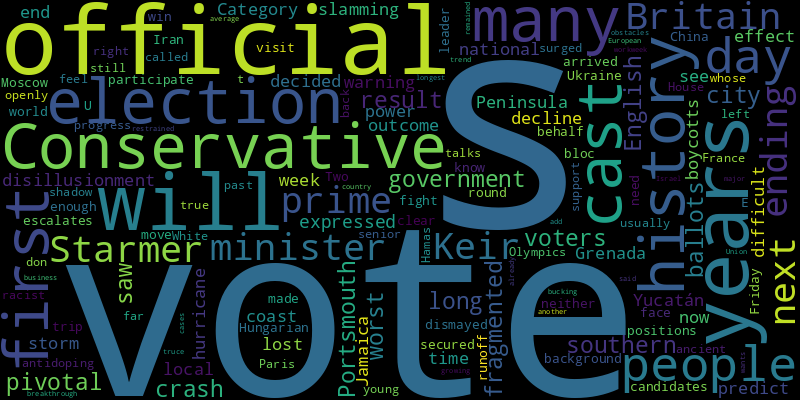
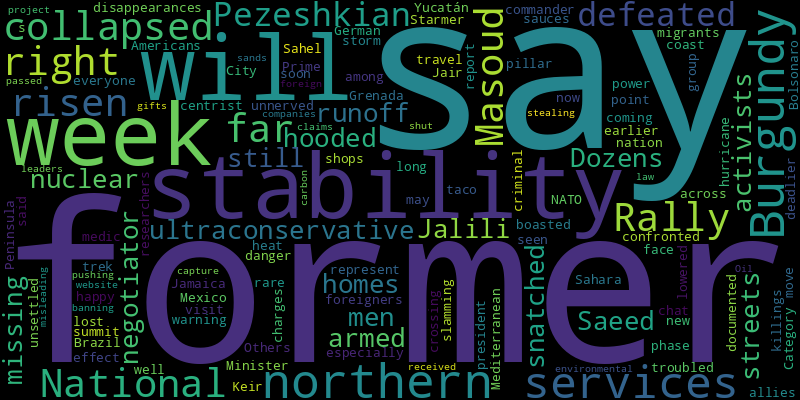
chore(bot): 👿 auto commit

diff --git a/README.md b/README.md
@@ -2,32 +2,33 @@
 Auto RSS New York Times and Generate Word Cloud
 
 ## New York Times Global News
-* Keir Starmer will be Britain’s next prime minister, ending 14 years of Conservative government. A fragmented vote saw the Conservatives crash to the worst result in their long history.
-* As voters cast their ballots in a pivotal election, many in the southern English city of Portsmouth expressed disillusionment over what they see as national and local decline.
+* In northern Burgundy, services have collapsed and the far-right National Rally has risen.
+* Masoud Pezeshkian defeated an ultraconservative former nuclear negotiator, Saeed Jalili, in a runoff.
+* Dozens of activists say they were snatched from their homes or off the streets by hooded, armed men. Some are still missing, and the disappearances have unnerved a nation long seen as a pillar of stability.
+* As more foreigners, especially Americans, visit or move to Mexico City, some taco shops have lowered the heat in their sauces. Not everyone is happy.
+* Prime Minister Keir Starmer will travel to a NATO summit this coming week, where he will represent a rare point of centrist stability among unsettled allies.
+* A German medic said he was so troubled that he confronted his commander. Others boasted about killings in a group chat.
+* The danger to migrants while crossing the Mediterranean is well documented, but an earlier phase of their trek, across the Sahel and the Sahara, is deadlier, researchers say in a new report.
 * The storm, now a Category 2,  has lost some power since slamming Jamaica and Grenada this week. A hurricane warning is in effect for the coast of the Yucatán Peninsula.
-* For the first time in years, the outcome is difficult to predict, and could be decided by how many people end their boycotts and participate in the vote.
-* Two candidates face off in Iran’s runoff election on Friday after neither secured enough votes to win in the first round. Here’s what you need to know about their positions and background.
-* Days after a trip to Ukraine, the Hungarian leader arrived in Moscow for a visit that has dismayed E.U. officials, who have made clear that he is not there on behalf of the bloc.
-* The move escalates a fight with China and world antidoping officials, and will cast a shadow over the Paris Olympics.
-* Most young people in France usually don’t vote or they back the left. That is still true, but support has surged for the far right, whose openly racist past can feel to them like ancient history.
-* A senior White House official called progress in talks with Hamas “a breakthrough,” while Israel was more restrained, and both said major obstacles to a truce remained.
-* The country, which already has the European Union’s longest average workweek, wants to add another day in some cases, bucking a growing business trend.
+* Brazil’s former president, Jair Bolsonaro, may soon face criminal charges for stealing gifts he received from foreign leaders.
+* Oil sands companies pushing a carbon capture project shut down their website after a law banning misleading environmental claims was passed.
 
 ![Global](./global.png)
 ## New York Times United States News
-* Dozens of voters in four swing states expressed fear, frustration and anger. And they want a Plan B — whatever (and whoever) that is.
+* “Felon” carries an ancient stigma — one that falls on millions of Americans today. Trump might well redefine it.
+* After more than a century, researchers hope to finally identify the victims of one of the worst racial attacks in American history.
 * The fire in Oroville forced 29,000 people to evacuate their homes earlier this week, but on Thursday officials said they felt “more confident” about containing the fire’s spread.
-* Residents moved to Mountain House, Calif., to escape soaring housing costs near the coast. Now, they just have to survive the searing summer heat.
-* Pro-Trump professionals aren’t just talking about remaking Western civilization. Some are uprooting their lives to show that they mean it.
-* The new ads are part of a push by Mr. Biden’s campaign for stability at a time when some members of his party have called for the president to drop out.
-* Republicans and Democrats live in radically different universes, interpreting the same set of facts through radically different lenses.
-* The president’s appearances have come under intense scrutiny since he appeared feeble in his debate against former President Donald J. Trump.
-* Gov. Gavin Newsom of California defended President Biden and told party activists in Michigan, a critical swing state, “not to be fatalistic” about the campaign.
-* The president appears intent on remaining on the ballot, while wealthy donors are discussing plans to put their money elsewhere.
-* The president’s opening remark to a group of key Democratic leaders — that he was in the race to stay — chilled any talk of his withdrawal, participants said.
+* Whether to publish the voluminous paper trail left behind by the assailant was one of the most contested issues that arose from the attack.
+* President Biden insisted on Friday that he would stay in the race. But if he decides to step aside, these individuals will determine who leads the ticket.
+* It’s a change from 2016, when House Republicans were the preferred candidates. At least two senators — J.D. Vance and Marco Rubio — are on the short list for the vice president slot.
+* After last week’s devastating debate performance, the president’s prime-time interview with ABC News was an exercise in not just damage control but reality control.
+* Both Democratic supporters of Biden’s campaign and those who have called for him to drop out signaled that the president’s interview with ABC News only reaffirmed their stances on his candidacy.
+* President Biden dismissed concerns about his age, his mental acuity and polls showing him losing his re-election bid.
+* The conversation between the president and George Stephanopoulos lasted about 20 minutes and aired Friday night.
 
 ![US](./usnews.png)
 ## New York Times Asia News
+* His “X” trilogy — which culminates with “MaXXXine” — obsesses over cinema, stardom and the industry itself.
 * One of the world’s most technologically advanced nations has held on to some of the most outmoded devices.
 * A former national security adviser says Washington “must test new nuclear weapons for reliability and safety in the real world,” while critics say the move could incite a global arms race that heightens the risk of war.
 * In “Private Revolutions,” Yuan Yang follows the lives of women in a rapidly changing modern superpower.
@@ -37,6 +38,5 @@ Auto RSS New York Times and Generate Word Cloud
 * The European Union took the next step toward collecting heavy tariffs on electric vehicles, ahead of a final decision in October.
 * Prime Minister Narendra Modi’s slim election victory has forced India to reflect on how fawning coverage may have obscured a wave of opposition.
 * Violent attacks on foreigners have prompted a debate about extreme nationalism online in a country that heavily censors information the government bans.
-* Plus, an ally said Biden is considering leaving the race.
 
 ![Asian](./asian.png)
